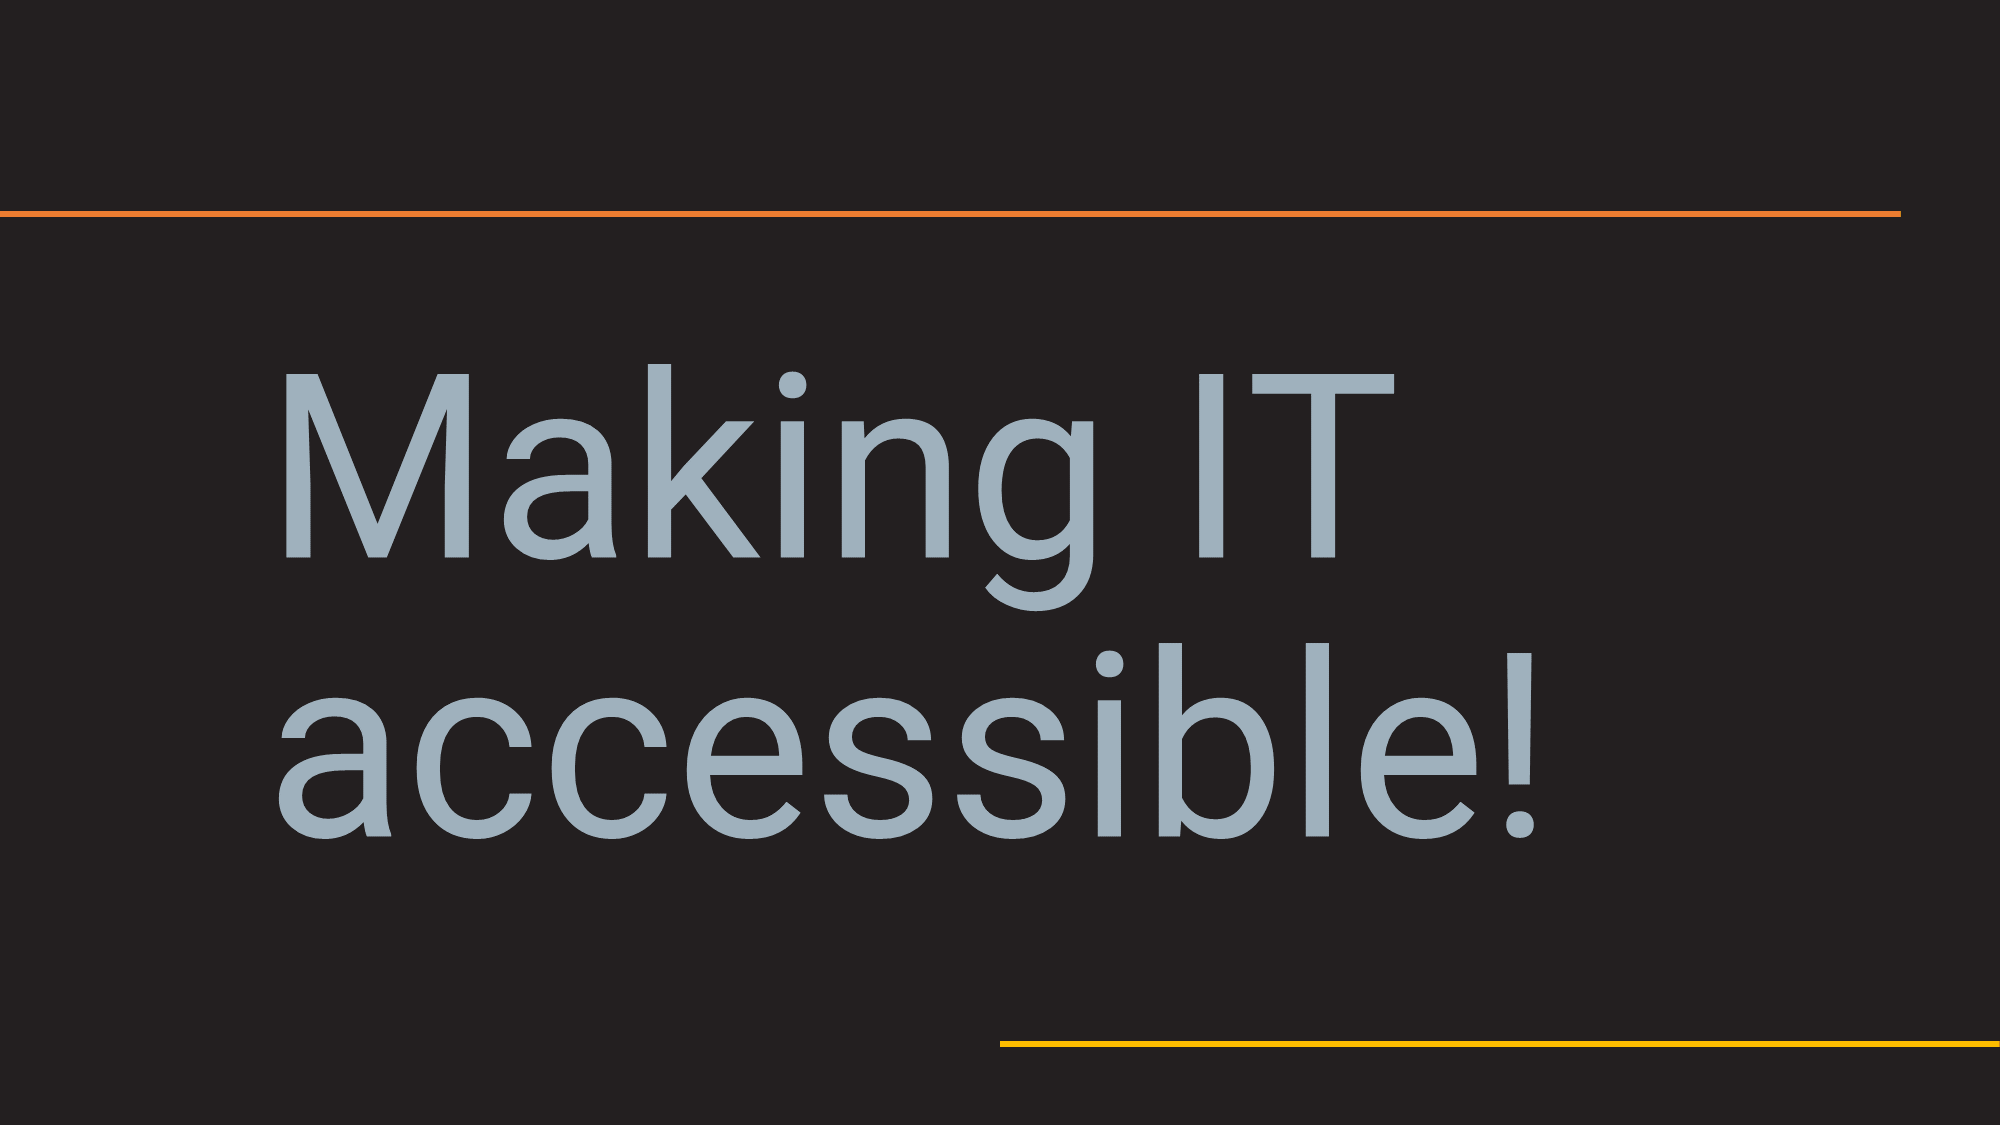
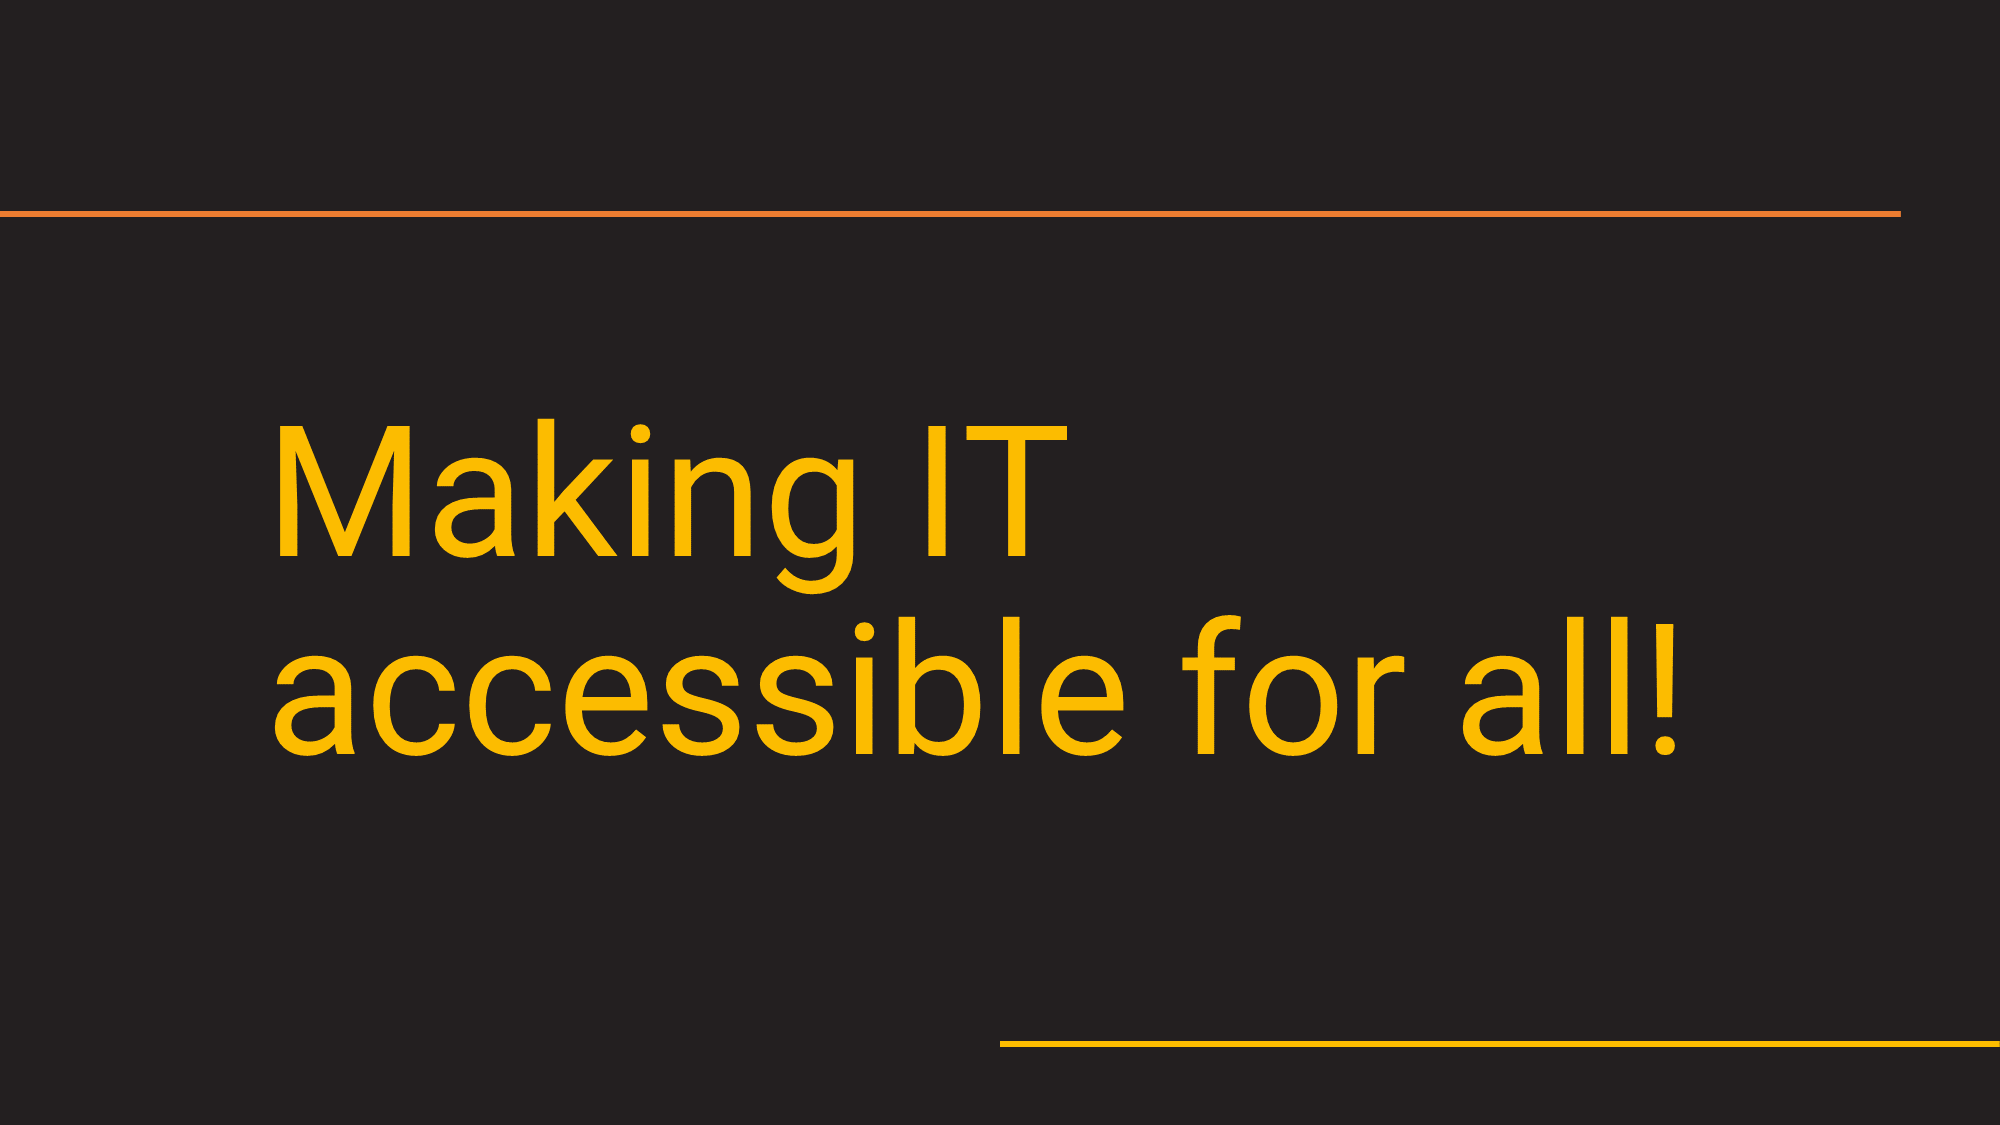
updates

Changed region(s): [[0.124, 0.3111, 0.837, 0.7467], [0.589, 0.3111, 0.713, 0.4978]]

diff --git a/index.html b/index.html
@@ -102,6 +102,16 @@
 <section>
 
   <ul class="cards">
+   <!--  Card 0    -->
+    <li>
+      <article class="card reorder">
+        <h2><a href="makeITaccessible.html">Making IT accessible for all!</a></h2>
+        <img src="makeITaccessible.PNG" alt="" loading="lazy" width="533" height="300">
+        <div class="cardDesc"><p>How can University IT departments embed accessibility within their policies and processes?</p></div>
+      </article>
+      <!--  End of card 0   -->
+    </li>
+  
     <li>
       <!--   Card 1    -->
       <article class="card reorder">
@@ -109,7 +119,7 @@
           <a href="whycare.html">Why care about Digital Accessibility?</a>
         </h2>
         <img src="soap-box-accessibility.png" alt="Presentation slide title: Why should we care about Digital Accessibility?" loading="lazy" width="533" height="300">
-        <p>Why should Accessibility matter to IT departments?</p>
+        <div class="cardDesc"><p>Why should Accessibility matter to IT departments?</p></div>
       </article>
       <!--  End of card 1    -->
     </li>
@@ -119,7 +129,7 @@
       <article class="card reorder">
         <h2><a href="amazing.html">Toward amazing accessibility!</a></h2>
         <img src="Towards_Amazing_Accessibility__M_Deeprose.png" alt="" loading="lazy" width="533" height="300">
-        <p>How University IT departments can embed accessibility within processes.</p>
+        <div class="cardDesc"><p>How University IT departments can embed accessibility within processes.</p></div>
       </article>
       <!--  End of card 2   -->
     </li>
@@ -128,7 +138,7 @@
       <article class="card reorder">
         <h2><a href="kent.html">On brand and accessible?</a></h2>
         <img src="Matthew_Deeprose_(University_of_Southampton)-Making_it_simple_to_ensure_the_use_of_colour_is_both_on_brand_and_accessible.png" alt="Presentation title: Making it simple to ensure the_use of colour is both on brand and accessible" loading="lazy" width="533" height="300">
-        <p>How can we make accessible colour choices whilst being on brand?</p>
+        <div class="cardDesc"><p>How can we make accessible colour choices whilst being on brand?</p></div>
 
       </article>
       <!--   End of card 3   -->
@@ -138,7 +148,7 @@
       <article class="card reorder">
         <h2><a href="keyboardnav.html">Keyboard Navigation and Accessibilty </a></h2>
         <img src="Introducing_Keyboard_Navigation_and_Accessibility.png" alt="" loading="lazy" width="533" height="300">
-        <p>Accessibility principles and why keyboard navigation is important.</p>
+        <div class="cardDesc"><p>Accessibility principles and why keyboard navigation is important.</p></div>
 
       </article>
       <!--   End of card 4   -->

diff --git a/presentations.html b/presentations.html
@@ -95,6 +95,10 @@
 <section class="presentations" id="accessibility">
 <h2>Accessibility Presentations</h2>
 <dl>
+	<dt><a href="makeITaccessible">Making IT accessible for all!</a></dt>
+    <dd>University Information Technology departments know they must commit to accessibility; indeed, they have a legal obligation to do so, but how can they take this ambition and embed accessibility within their policies and processes?</dd>
+
+
     <dt><a href="allies.html">Accessibility Allies at the University of Southampton</a></dt>
     <dd>How 5 student interns improved digital accessibility for more than 6000 students.</dd>
 

diff --git a/main.css b/main.css
@@ -78,7 +78,7 @@ aside li {
     border-radius: 3px;
     margin: 0;
     padding: 0;
-    border-radius: .6em;
+    /* border-radius: .6em; */
 }
 
 .cards > * {
@@ -90,6 +90,7 @@ aside li {
     margin: 0.3rem 0.3rem 1rem 0.3rem;
     padding: 0.5em;
     border-radius: 0.5rem;
+	    min-height:33rem;
 }
 ul.cards {
     margin-bottom: 0rem;
